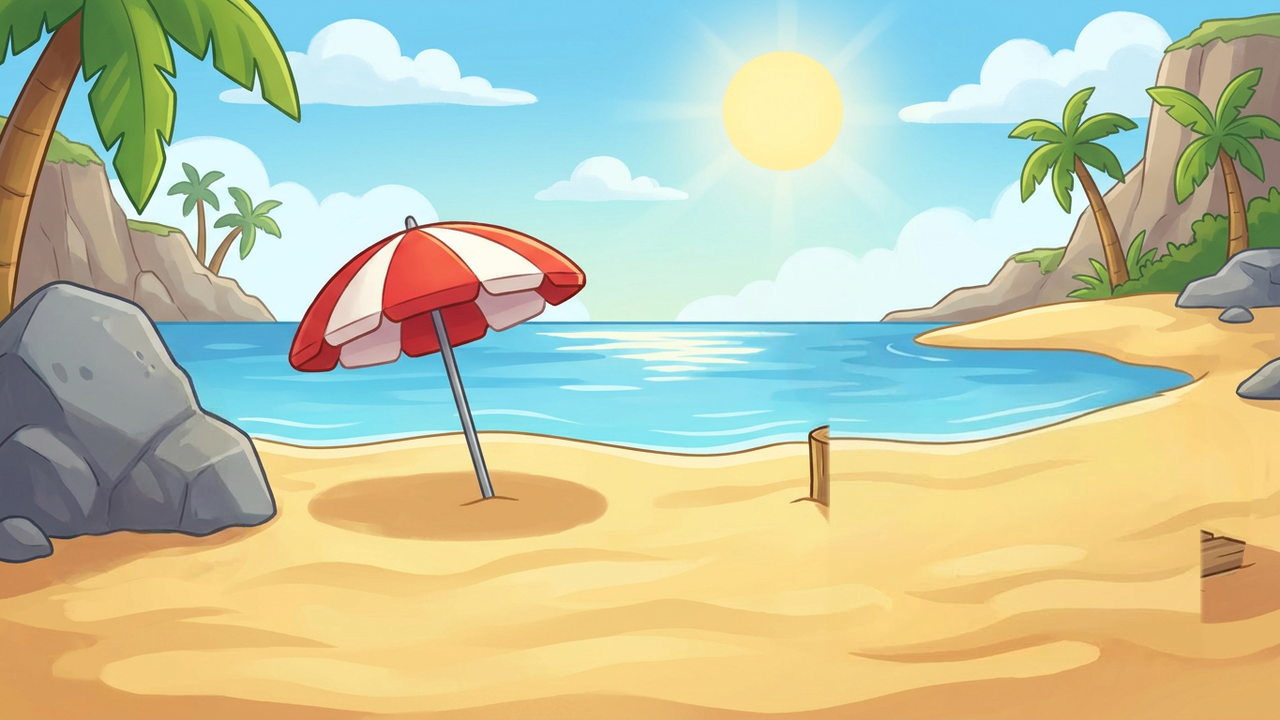
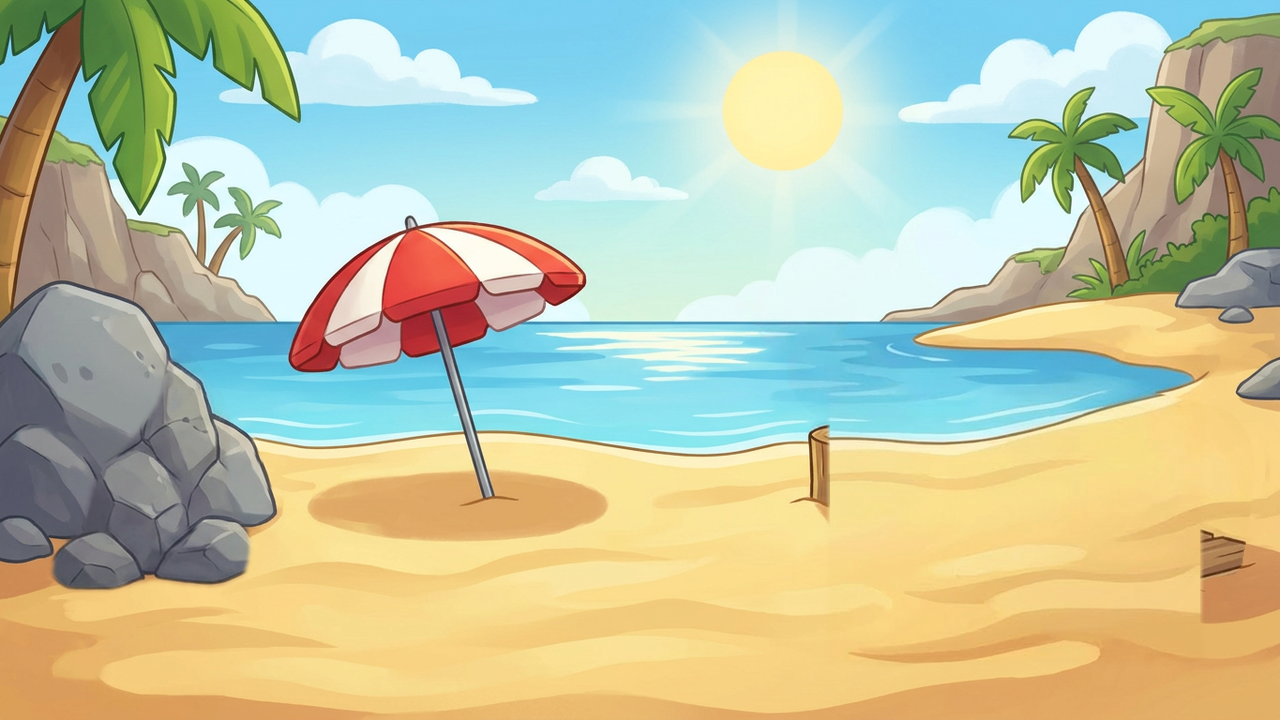
fix(escape): NBP repair net remnants + baseline + airbrush blob fix
Piratecove net plate: v3 repair (gray rock, no green blobs) with
targeted blob fix (cand4, pairwise 3-0 vs v3 — crisp cel-shaded
shadows, airbrush halo removed). Baseline entry at 0.062:
geometry-intrinsic gray-on-gray coincidence (net rope within 4-8
sum-RGB of architecturally correct rock; sub-perceptual, ghost PASS).
D.1-PRE smoke: 2 → 1 failure (only rocket remains).

Changed region(s): [[0.0312, 0.4889, 0.2188, 0.825]]

diff --git a/tools/tests/test_verify_escape_chain.py b/tools/tests/test_verify_escape_chain.py
@@ -496,8 +496,9 @@ class TestBaselineRegression:
 # ===================================================================
 class TestRealAssetsSmoke:
     """Run D.1-PRE on the actual escape room assets and verify the
-    two known failures (net, rocket) are reported.  Crate passes via
-    baseline (tan-wood coincidence, team-lead verified 2026-07-19)."""
+    one known failure (rocket) is reported.  Crate passes via baseline
+    (tan-wood coincidence, team-lead verified 2026-07-19).  Net passes
+    via baseline (gray-on-gray coincidence, team-lead verified 2026-07-19)."""
 
     def test_real_remnant_failures(self):
         m = json.loads(vec.MANIFEST.read_text())
@@ -508,8 +509,8 @@ class TestRealAssetsSmoke:
             )
 
         total = sum(results.values())
-        assert total == 2, (
-            f"Expected 2 D.1-PRE failures (net, rocket), got {total}: "
+        assert total == 1, (
+            f"Expected 1 D.1-PRE failure (rocket), got {total}: "
             + ", ".join(f"{k}={v}" for k, v in results.items() if v > 0)
         )
 
